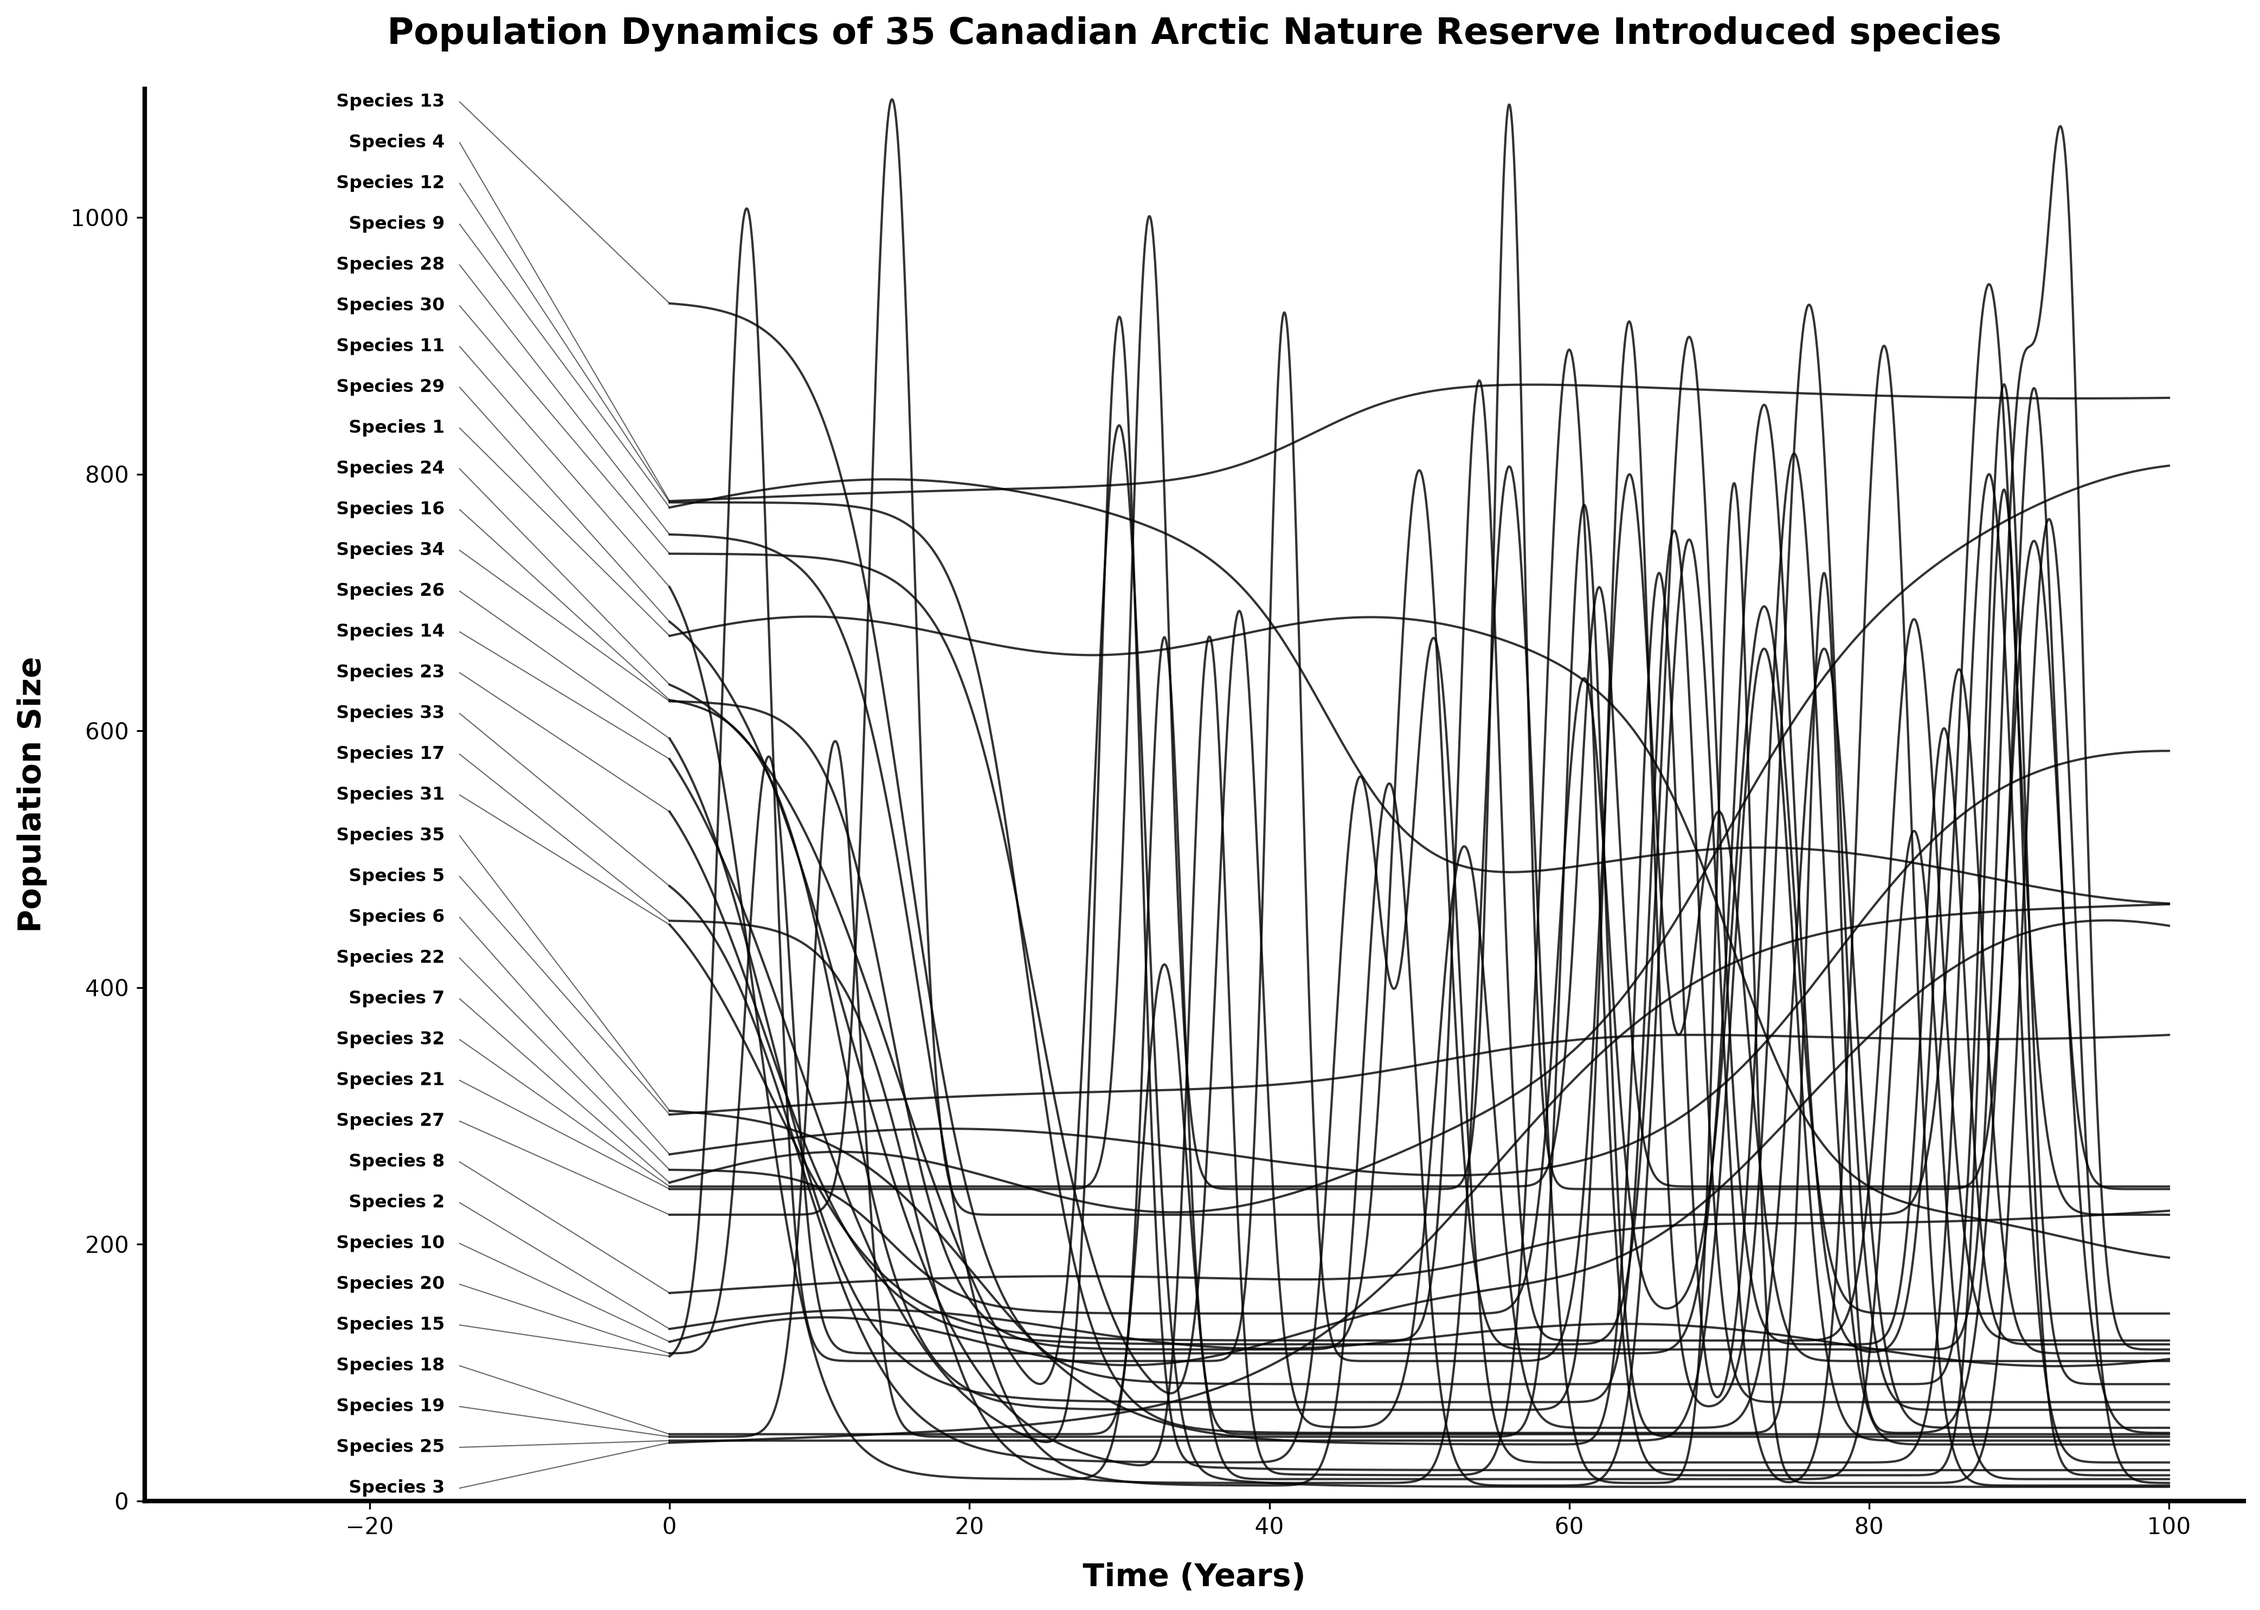
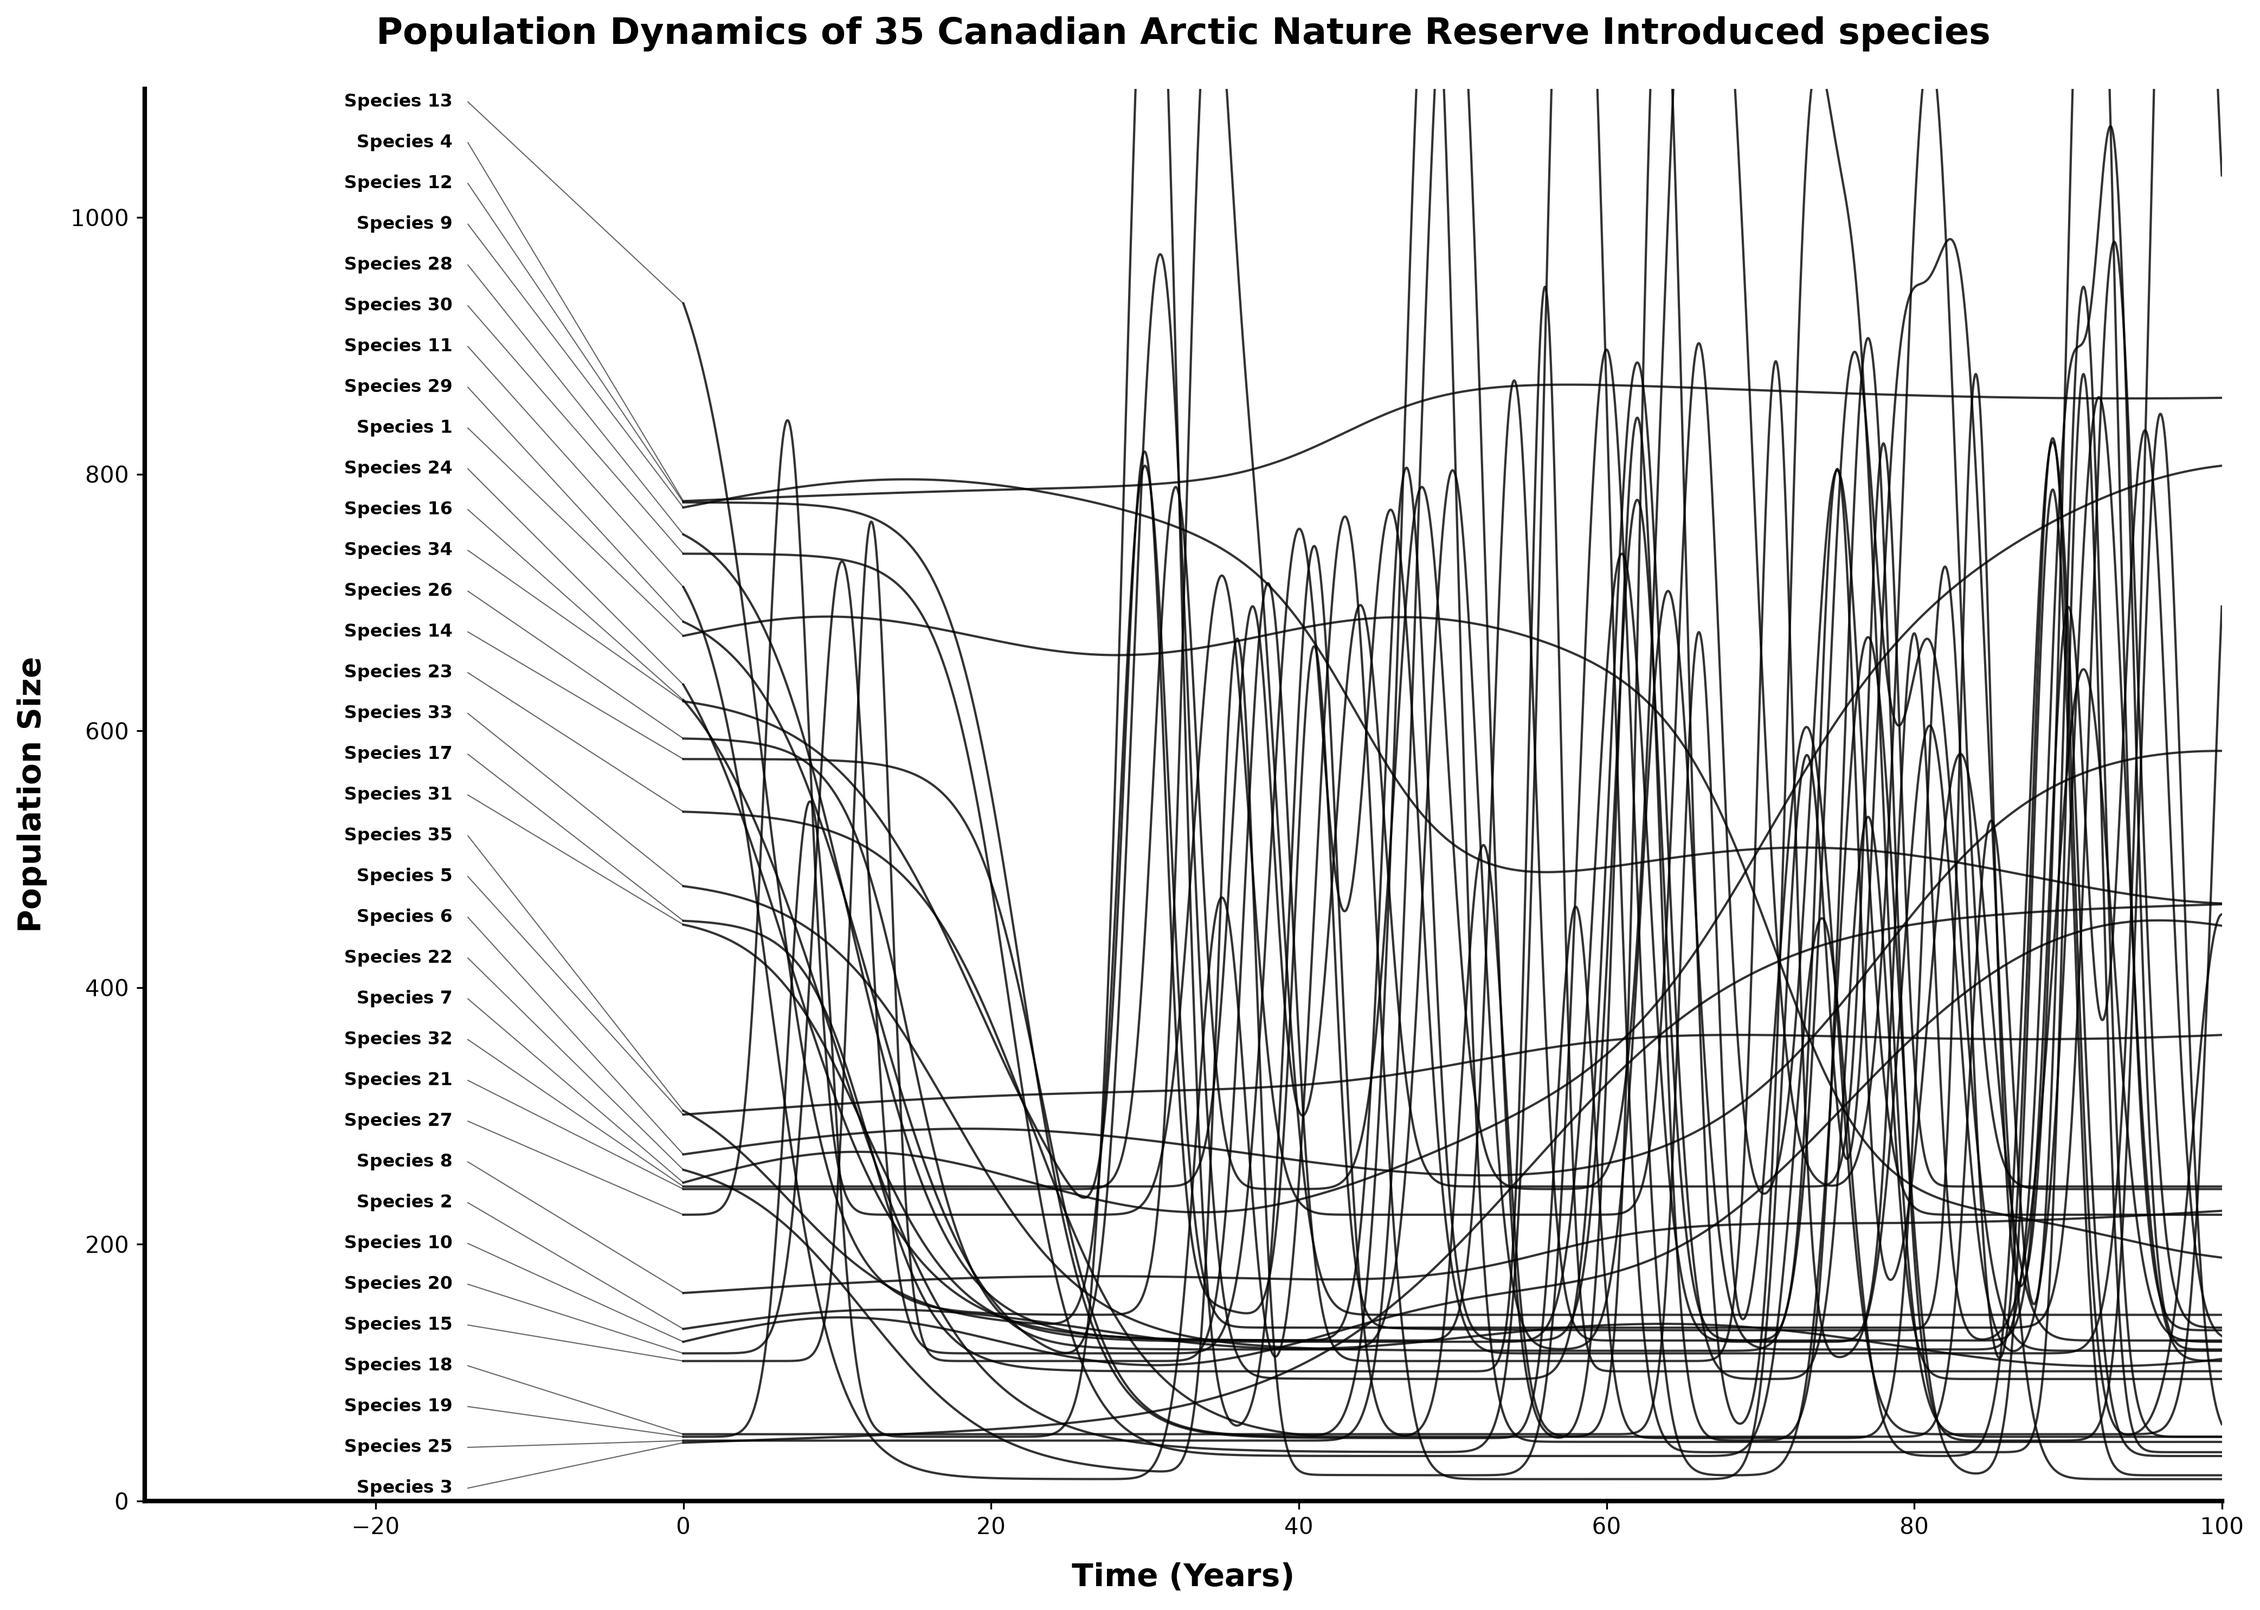
v5 less obvious right side of graph

diff --git a/generate-graph.py b/generate-graph.py
@@ -5,7 +5,7 @@ import random
 import sys
 
 # Generate high-resolution time data
-t = np.linspace(0, 100, 3000)
+t = np.linspace(0, 110, 3000) # Extended slightly to calculate overlapping right-edge spikes smoothly
 
 # Seed for reproducibility so the graph and JSON match every time
 np.random.seed(42)
@@ -75,10 +75,11 @@ for i in range(25):
             early_width = np.random.uniform(2, 6)
             pop += early_height * np.exp(-((t - early_spike) ** 2) / early_width)
 
-    # 1 to 4 massive exponential reproduction events later in the simulation (post-introduction phase)
-    num_spikes = np.random.randint(1, 4)
+    # 1 to 5 massive exponential reproduction events later in the simulation (post-introduction phase)
+    num_spikes = np.random.randint(2, 6)
     for _ in range(num_spikes):
-        spike_time = np.random.randint(30, 95)
+        # Push the spike time all the way up to 110 so they are actively oscillating at the graph's right edge
+        spike_time = np.random.randint(30, 110)
         spike_height = np.random.randint(400, 900)
         width = np.random.uniform(2, 8)  # narrowness of the spike
         pop += spike_height * np.exp(-((t - spike_time) ** 2) / width)
@@ -104,7 +105,9 @@ print("Saved ground truth to ground_truth.json")
 fig, ax = plt.subplots(figsize=(14, 10))
 
 for pop in lines:
-    ax.plot(t, pop, color='black', linewidth=1.0, solid_joinstyle='round', alpha=0.8)
+    # We slice t and pop to only plot up to year 100, leaving the rest cut off naturally
+    plot_mask = t <= 100
+    ax.plot(t[plot_mask], pop[plot_mask], color='black', linewidth=1.0, solid_joinstyle='round', alpha=0.8)
 
 # Calculate start values to organize labels without overlapping lines
 start_vals = [pop[0] for pop in lines]
@@ -128,7 +131,7 @@ for rank, idx in enumerate(sorted_indices):
     ax.plot([text_x + 1, 0], [text_y, actual_y], color='black', linewidth=0.5, alpha=0.6)
 
 # Expand the left margin to -35 to give plenty of room for labels and leader lines
-ax.set_xlim(-35, 105)
+ax.set_xlim(-35, 100) # Hard stop at year 100 visually
 ax.set_ylim(0, 1100)
 ax.set_xlabel("Time (Years)", fontsize=14, fontweight='bold', labelpad=10)
 ax.set_ylabel("Population Size", fontsize=14, fontweight='bold', labelpad=10)
